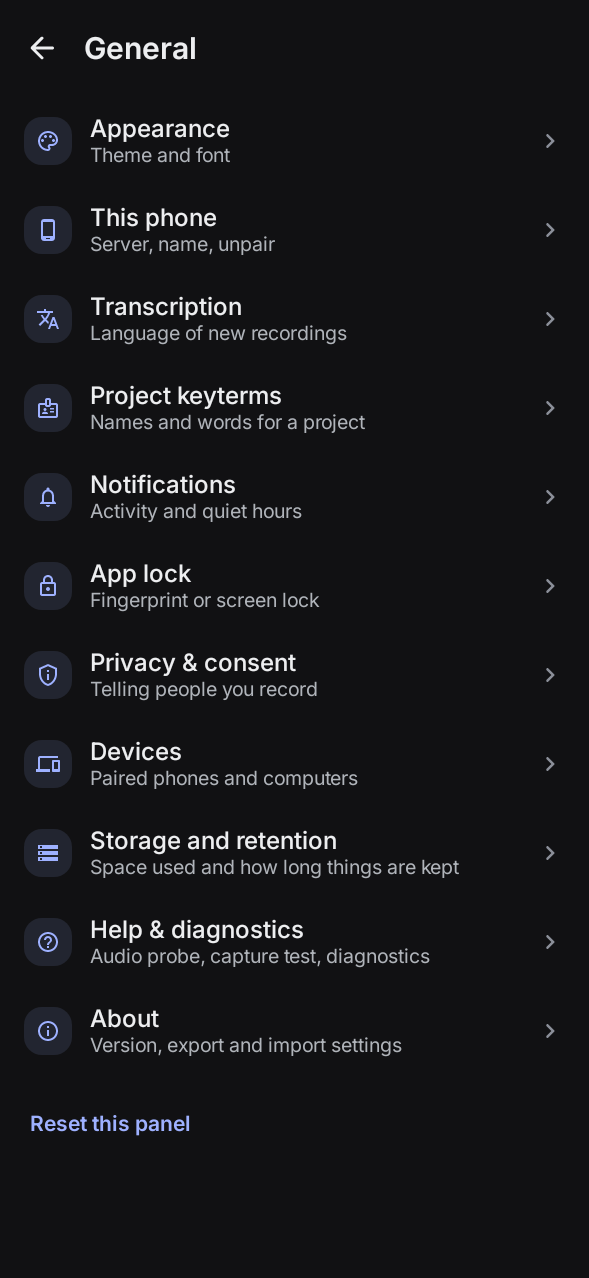
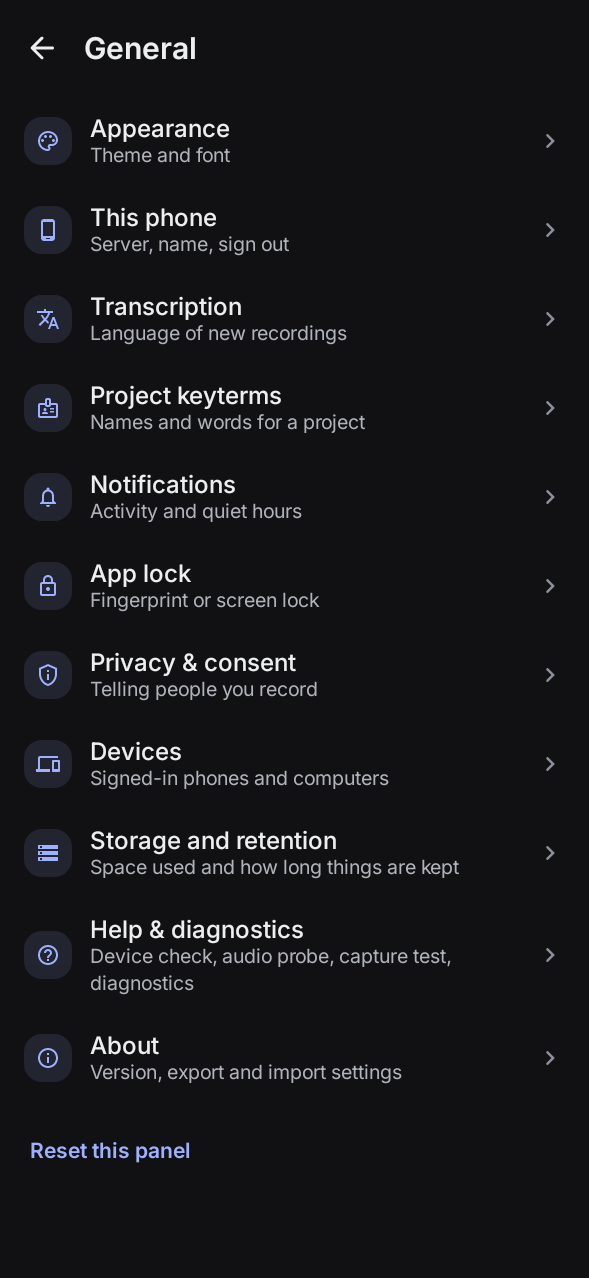
Manual checks for the security fixes that only a deployed server can prove; the phone's General screen again with its new wording

diff --git a/docs/MANUAL_QA.md b/docs/MANUAL_QA.md
@@ -637,3 +637,20 @@ second person or device to share a screen, and a slide deck with a few slides.
 | R-03 | Install the new APK over the previous one. | The update works. Pairing and waiting recordings survive. |
 | R-04 | Optional auto-update with a signed manifest. | It installs only when not recording. A tampered signature is rejected. |
 | Privacy | Watch a proxy for 10 minutes of use; run `tools/scan-secrets.ps1` on the installer folder and the APK. | Only the server and the chosen speech provider appear. No provider key is found. |
+
+### After the deploy: security checks v1.5 (about 15 minutes)
+
+Replace `<server>` with the console's address.
+
+| # | Check | Expected |
+|---|---|---|
+| SEC-1 | `curl -s -o /dev/null -w '%{http_code}' -H 'Host: example.com' https://<server>/up` | `400`, or the host's own error page. The same without the `-H` part answers `200`. |
+| SEC-2 | Console → Forgot password for your own account. Open the email. | The link starts with `https://<server>/`. |
+| SEC-3 | Play a recording in the console and on a phone. | It plays: signed links use the server's own address. |
+| SEC-4 | Profile: change your email to a second address you own. Before opening the link in that mailbox, sign out and sign in with the old address. | The old address still works; the new one takes over only after the link is opened. |
+| SEC-5 | Send a project to a teammate, then file a new recording in it. | They see what was there when you sent it, not the new one. Send it again: now they see it. |
+| SEC-6 | **Share** on a recording or project you sent, on the phone, the desktop and the console. Press **Stop sharing**. | The person is listed with the date; after pressing, they can no longer open it. A copy they saved stays theirs. |
+| SEC-7 | Remove a teammate from the workspace. | What was sent to them from it leaves their Shared with me, and links they made there stop working. |
+| SEC-8 | As a member, not an owner or admin, with Live Translate's budget used up: press **Continue this month**. | Refused, with a message to ask an owner. An owner can continue, up to twice the budget. |
+| SEC-9 | Fail the console sign-in six times for one email, then enter the right password. | Refused for about 15 minutes, in plain words. |
+| SEC-10 | **Sign out everywhere** with the console open in a second browser. | The second browser goes to the sign-in page on its next click. |
